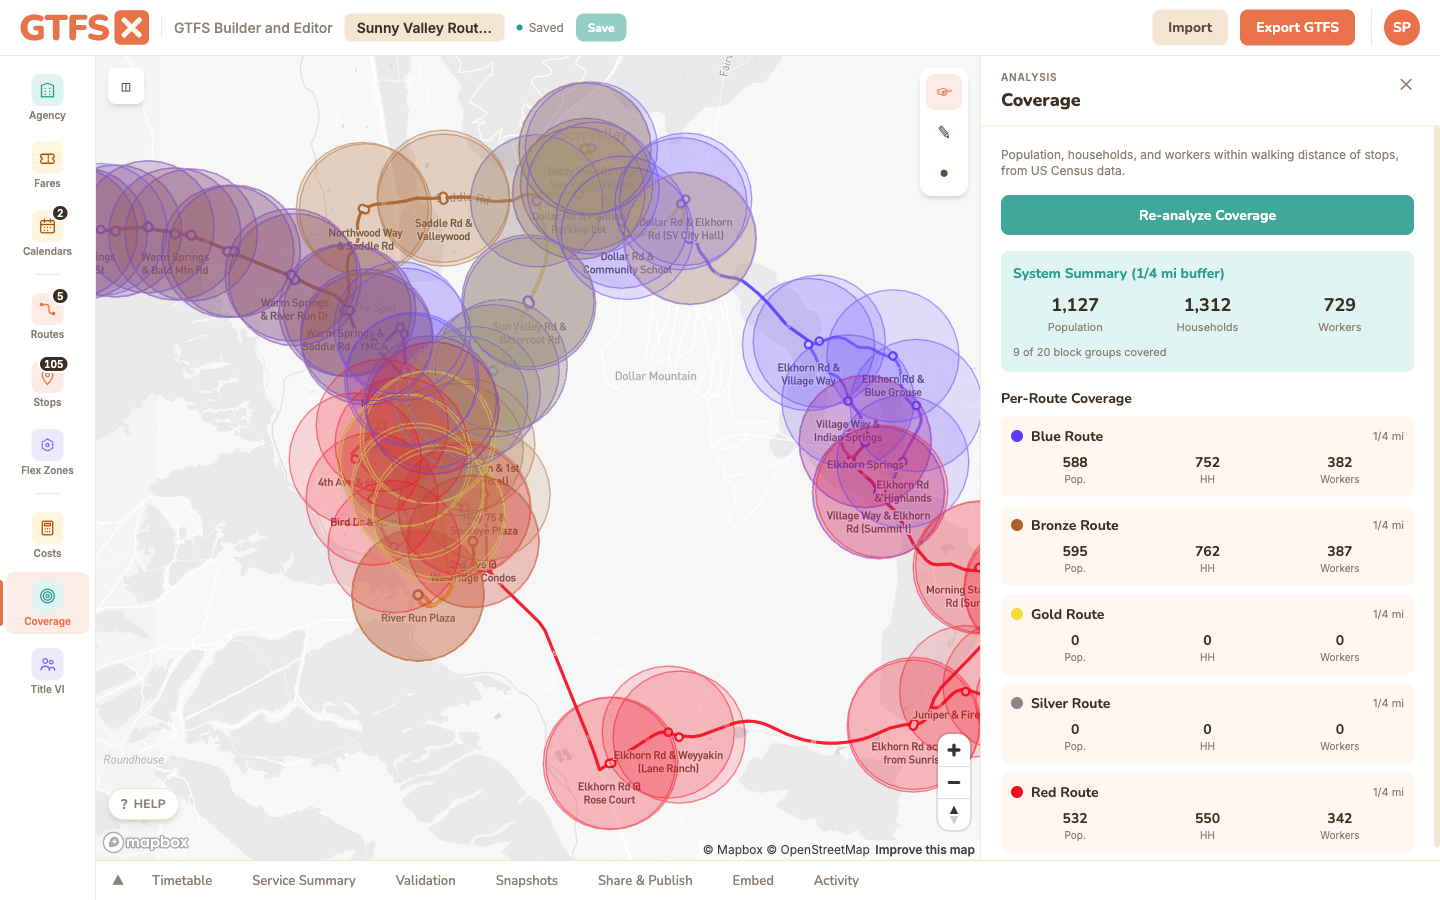
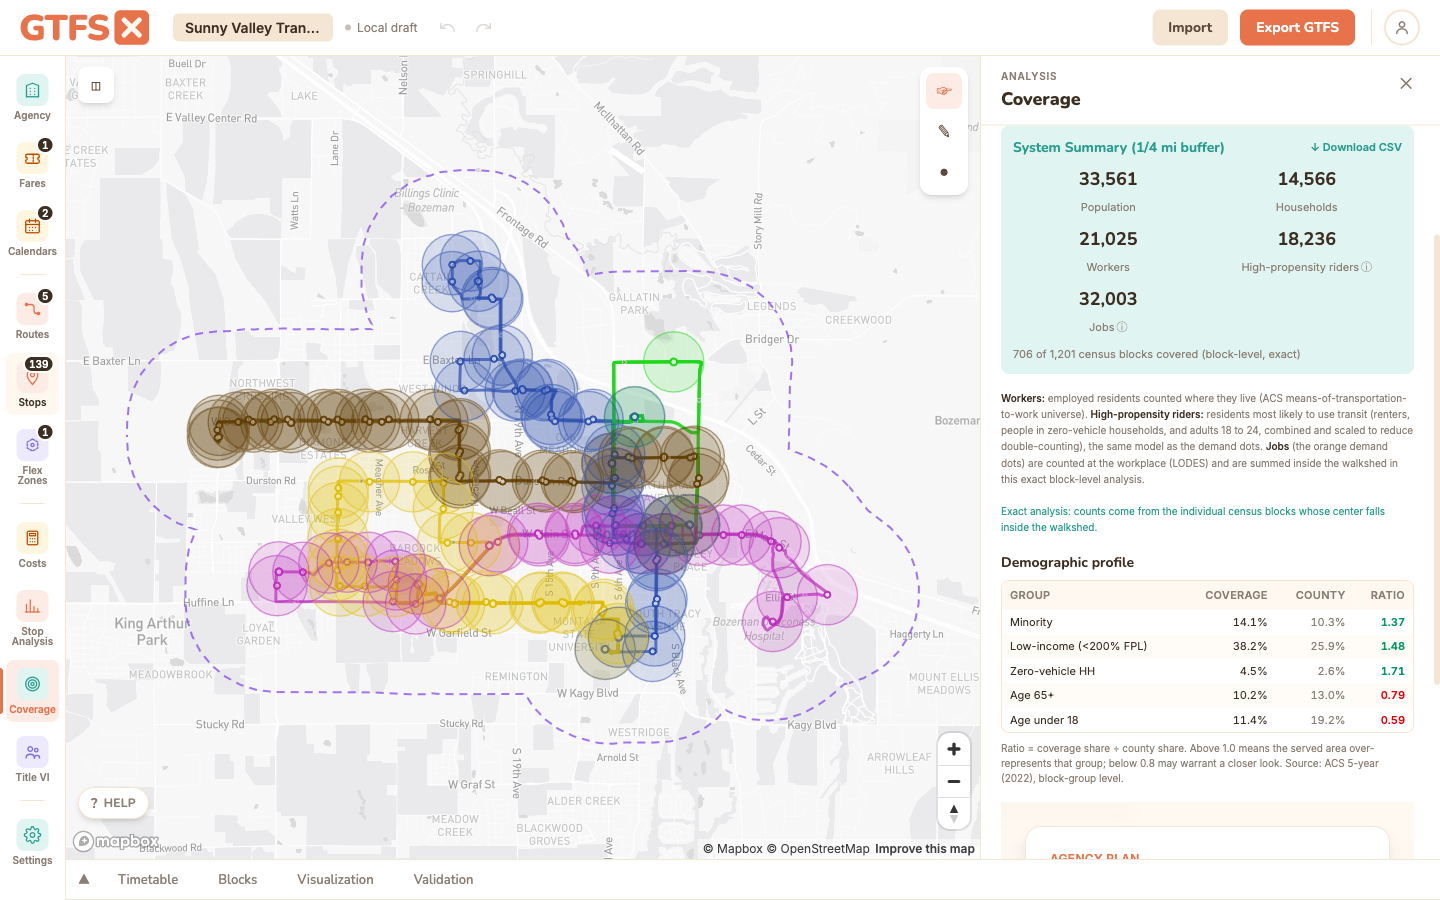
docs(coverage): rewrite for the revised block-level demographic analysis
The Demographic coverage page described the old method (block-group discs on
tract centroids, B25001 housing units, jobs/equity excluded). Rewrite What it
is / How to use / Methodology / Limits for the current method: exact
census-block tabulation, data sources (TIGER TABBLOCK20 + ACS 2022 5-yr
apportioned to blocks + LEHD/LODES jobs), and outputs (population, occupied
households, workers, high-propensity riders, jobs, equity profile, CSV). Fresh
hero screenshot; meta + dateModified updated; search index rebuilt.

diff --git a/public/docs/demographic-coverage/index.html b/public/docs/demographic-coverage/index.html
@@ -5,10 +5,10 @@
     <meta name="viewport" content="width=device-width, initial-scale=1.0" />
     <link rel="icon" type="image/svg+xml" href="/favicon.svg?v=2" />
     <title>Demographic coverage — GTFS·X</title>
-    <meta name="description" content="Population, households, and workers within walking distance of GTFS stops, computed from US Census ACS data. Per-route and system-wide figures." />
+    <meta name="description" content="Population, households, workers, jobs, and equity demographics within walking distance of GTFS stops, tallied at the census-block level from US Census ACS, decennial, and LEHD/LODES data. Per-route and system-wide figures." />
     <link rel="canonical" href="https://www.gtfsx.com/docs/demographic-coverage/" />
     <meta property="og:title" content="Demographic coverage — GTFS·X" />
-    <meta property="og:description" content="Population, households, and workers served by a GTFS feed, using US Census ACS data and a configurable walk-distance buffer." />
+    <meta property="og:description" content="Population, households, workers, jobs, and equity demographics served by a GTFS feed, tallied at the census-block level from US Census ACS, decennial, and LEHD/LODES data." />
     <meta property="og:type" content="article" />
     <meta property="og:url" content="https://www.gtfsx.com/docs/demographic-coverage/" />
     <meta property="og:image" content="https://www.gtfsx.com/og-default.png" />
@@ -62,7 +62,7 @@
   "@context": "https://schema.org",
   "@type": "TechArticle",
   "headline": "Demographic coverage — GTFS·X",
-  "description": "Population, households, and workers within walking distance of GTFS stops, computed from US Census ACS data. Per-route and system-wide figures.",
+  "description": "Population, households, workers, jobs, and equity demographics within walking distance of GTFS stops, tallied at the census-block level from US Census ACS, decennial, and LEHD/LODES data. Per-route and system-wide figures.",
   "image": "https://www.gtfsx.com/og-default.png",
   "author": {
     "@type": "Organization",
@@ -78,7 +78,7 @@
     }
   },
   "datePublished": "2026-05-01",
-  "dateModified": "2026-05-22",
+  "dateModified": "2026-06-27",
   "mainEntityOfPage": {
     "@type": "WebPage",
     "@id": "https://www.gtfsx.com/docs/demographic-coverage/"
@@ -104,17 +104,18 @@
     <main>
       <div class="crumbs"><a href="/docs/">Docs</a> · Analysis tools · Demographic coverage</div>
       <h1>Demographic coverage <span class="tier-badge agency">Agency</span></h1>
-      <p class="lede">Population, households, and workers within walking distance of your stops, computed from US Census ACS data. Per-route and system-wide figures suitable for a grant narrative ("17,400 residents and 9,200 jobs are within a quarter-mile of the proposed Route 5 alignment") or for sanity-checking a service alternative.</p>
+      <p class="lede">Population, households, workers, jobs, and equity demographics within walking distance of your stops, tallied at the individual census-block level from US Census data. Per-route and system-wide figures suitable for a grant narrative ("33,600 residents and 32,000 jobs are within a quarter-mile of the network") or for sanity-checking a service alternative.</p>
       <p><strong>The system-level summary is free on every plan.</strong> The per-route coverage breakdown is an Agency feature.</p>
 
       <figure>
-        <img src="/assets/docs/demographic-coverage-hero.png" alt="Coverage panel in GTFS·X showing population, household, and worker totals for Sunny Valley, with the buffer overlay rendered on the map." loading="lazy" />
-        <figcaption>Coverage analysis on the Sunny Valley feed. System totals (population, households, workers) at top; per-route breakdown below; coverage polygons overlaid on the map.</figcaption>
+        <img src="/assets/docs/demographic-coverage-hero.png" alt="Coverage panel in GTFS·X showing population, household, worker, high-propensity rider, and job totals for Sunny Valley, plus an equity profile, with the walkshed buffer rendered on the map." loading="lazy" />
+        <figcaption>Coverage analysis on the Sunny Valley feed. System totals (population, households, workers, high-propensity riders, and jobs) tallied from the exact census blocks inside the walkshed, with the equity profile against the county baseline below and the buffer overlaid on the map.</figcaption>
       </figure>
 
       <h2 id="what-it-is">What it is</h2>
-      <p>The Coverage panel reports three figures for the area within walking distance of your transit network: <strong>population</strong>, <strong>households</strong>, and <strong>workers</strong>. The figures come from the most recent five-year American Community Survey (currently the 2022 5-year release, ACS B01003, B25001, and B08301 respectively) and are apportioned to your service area by overlapping a buffer around each stop with the Census block groups it touches.</p>
-      <p>It's the answer to the most-asked question in a service-planning meeting — "how many people does this route reach?" — without firing up a desktop GIS or pulling Census tables by hand. Run it on your existing network to anchor a discussion; run it on a proposed alternative to support a recommendation.</p>
+      <p>The Coverage panel reports, for the area within walking distance of your transit network: <strong>population</strong>, <strong>households</strong>, <strong>workers</strong>, <strong>high-propensity riders</strong>, and <strong>jobs</strong>. Alongside the totals it shows an <strong>equity profile</strong> (minority, low-income, zero-vehicle, senior, and youth shares) compared against the county baseline, and a <strong>Download CSV</strong> of every figure.</p>
+      <p>The counts are exact rather than approximate: GTFS·X tallies the individual US census blocks whose center falls inside the walkshed. Block population comes from the 2020 decennial count, American Community Survey demographics are apportioned down to each block by population, and jobs are workplace counts from the Census LEHD program. It works for any feed in the 50 states plus DC.</p>
+      <p>It answers the most-asked question in a service-planning meeting ("how many people does this route reach?") without firing up a desktop GIS or pulling Census tables by hand. Run it on your existing network to anchor a discussion, or on a proposed alternative to support a recommendation.</p>
 
       <h2 id="when-to-use-it">When to use it</h2>
       <ul>
@@ -127,25 +128,31 @@
       <h2 id="how-to-use-it">How to use it in GTFS·X</h2>
       <ol>
         <li>Open the feed in the editor and click <strong>Coverage</strong> in the left sidebar.</li>
-        <li>Click <strong>Analyze Coverage</strong>. The tool fetches the Census block groups that intersect your service area and computes the buffered overlap. First run for a region takes several seconds; results cache locally.</li>
-        <li>Read the system summary card: population, households, workers, and the count of block groups touched, with the buffer distance noted.</li>
-        <li>Scroll the per-route breakdown to see how each route contributes. A route that adds few unique residents relative to its operating cost is worth asking questions about (and the <a href="/docs/cost-estimation/">Cost estimation</a> panel will give you the other half of that ratio).</li>
+        <li>Click <strong>Analyze Coverage</strong>. GTFS·X loads the census blocks around your stops and tallies the ones inside the walkshed. The first run for a region takes a few seconds; results cache locally.</li>
+        <li>Read the system summary: population, households, workers, high-propensity riders, and jobs, with the count of census blocks covered noted underneath.</li>
+        <li>Below it, the <strong>demographic profile</strong> compares the covered area's equity shares against the county baseline (a ratio above 1.0 means the served area over-represents that group).</li>
+        <li>Scroll the per-route breakdown to see how each route contributes, then use <strong>Download CSV</strong> to export every figure (system, county baseline, and per route) for a report. Pair a route's coverage with the <a href="/docs/cost-estimation/">Cost estimation</a> panel for a service-per-dollar view.</li>
+        <li>Agency-plan users can switch on <strong>street-network walksheds</strong> for walk-distance reach instead of a straight-line buffer.</li>
       </ol>
 
       <h2 id="methodology">Methodology</h2>
-      <p>The tool buffers each stop, intersects the buffer with the Census block groups it overlaps, and apportions block-group demographics by the overlap fraction.</p>
+      <p>GTFS·X counts the individual US census blocks whose center point falls inside the walkshed, then sums each block's attributes. Counting real blocks rather than approximating with overlap math is what makes the figures exact.</p>
       <ul>
-        <li><strong>Buffer distance.</strong> Quarter-mile (1,320 ft) for bus, ferry, cable car, gondola, and funicular routes; half-mile (2,640 ft) for tram, subway, and rail. These match the conventional walking-distance assumptions used in transit-planning practice. Per-stop buffer overrides aren't supported today.</li>
-        <li><strong>Block-group geometry.</strong> Each block group is modeled as a disc with a half-mile radius centered on the tract centroid. This is a deliberate simplification — actual block-group polygons would be more precise but materially slower to compute in the browser — and is best understood as a reasonable approximation for dense and suburban areas. Sparse rural block groups may be over-counted; if your service area has fewer than ~50 block groups, validate the result against a polygon-aware tool.</li>
-        <li><strong>System-wide aggregation.</strong> For each block group, the tool takes the <em>maximum</em> overlap fraction across all routes (not the sum) before computing population. That means a block group covered by three routes counts once, not three times — the system-wide figure is a union count, not a sum of per-route counts. (Per-route figures, by contrast, are pure per-route — adding them up will over-count.)</li>
-        <li><strong>ACS variables.</strong> <code>B01003_001E</code> for total population, <code>B25001_001E</code> for total housing units (used as a proxy for households), <code>B08301_001E</code> for total workers 16 and over. Vintage: ACS 2022 5-year. If your agency's adopted methodology requires a different vintage, the figure won't be directly comparable — cite the vintage in any document.</li>
+        <li><strong>Walkshed.</strong> By default, a straight-line buffer around each stop: quarter-mile (1,320 ft) for bus, ferry, cable car, gondola, and funicular routes; half-mile (2,640 ft) for tram, subway, and rail. These match the conventional walking-distance assumptions used in transit-planning practice. Agency-plan users can switch to <strong>street-network walksheds</strong>, which follow the actual pedestrian network (and can size each stop's reach by its service frequency) instead of a circle.</li>
+        <li><strong>Census blocks, not block groups.</strong> A census block is the Bureau's smallest geography, often a single city block. GTFS·X loads a nationwide layer of every block's internal point and tallies the blocks inside the walkshed, so coverage tracks your stop placement closely instead of being smeared across a half-mile disc. (An earlier version of this tool approximated block groups as discs on tract centroids; the block-level method replaces it.)</li>
+        <li><strong>Data sources.</strong> Block geometry and 2020 population come from the Census <strong>TIGER/Line</strong> block file (TABBLOCK20). Demographic detail comes from the <strong>American Community Survey</strong> 5-year estimates (2022 release), published at the block-group level and apportioned down to each block in proportion to its 2020 population (a standard dasymetric step). Jobs come from the Census <strong>LEHD/LODES</strong> program, which already reports employment at the block level.</li>
+        <li><strong>What each figure measures.</strong> <em>Population</em> (ACS <code>B01003</code>), <em>households</em> (occupied households, ACS <code>B25044</code>), and <em>workers</em> (employed residents counted where they live, ACS <code>B08301</code>) are residence-based. <em>Jobs</em> are workplace-based, from LODES. <em>High-propensity riders</em> estimates the residents most likely to use transit: renters, people in zero-vehicle households, and adults 18 to 24, combined and scaled to discount the overlap between those groups. The <em>equity profile</em> reports the minority, low-income, zero-vehicle, senior, and youth shares of the covered area against the surrounding county.</li>
+        <li><strong>System vs. per-route.</strong> The system summary counts each block once even when several routes reach it (a union, not a sum). Per-route figures are pure per-route, so adding them up will over-count blocks served by more than one route.</li>
+        <li><strong>Coverage area.</strong> The exact block layer spans the 50 states plus DC. A feed outside that (a US territory, or outside the country) automatically falls back to the older block-group estimate, and the panel labels which method produced each figure.</li>
       </ul>
 
       <h2 id="limits">Limits</h2>
       <ul>
-        <li>The buffer-around-a-stop assumption treats stop placement as the unit of access. It doesn't model walk-network geometry, intersections, or topography. A stop on the wrong side of a freeway with no underpass will still count as covering everything within a quarter-mile.</li>
-        <li>"Workers" is the residential count — people who live in the buffer and work somewhere. For "jobs in the buffer" (a different demographic, often more useful for downtown coverage), see the Demand Dots layer described in <a href="/docs/rider-propensity/">Rider propensity</a>, which incorporates LEHD workplace data.</li>
-        <li>The tool surfaces totals only. For Title VI–style demographic comparisons (minority vs non-minority, low-income vs non-low-income), see the <a href="/docs/title-vi-analysis/">Title VI analysis</a> page.</li>
+        <li>The default straight-line buffer treats stop placement as the unit of access; it doesn't model walk-network geometry, intersections, or topography. A stop on the wrong side of a freeway with no underpass still counts as covering everything within the buffer. The Agency-plan street-network walkshed addresses this by following the real pedestrian network.</li>
+        <li>ACS demographics are apportioned to blocks in proportion to each block's population, which assumes they're distributed evenly within a block group. This is far more accurate than a land-area split, but it remains an estimate at the block level for everything except the raw population and job counts (which are measured directly).</li>
+        <li>"Workers" and "jobs" measure different things and are both reported: workers are employed residents counted where they live; jobs are counted where the work is (so a downtown with few residents but many jobs shows a low worker count and a high job count).</li>
+        <li>Figures use the ACS 2022 5-year vintage and 2020 decennial block geometry. If your agency's adopted methodology requires a different vintage, cite the one used in any document.</li>
+        <li>The on-screen equity profile is a quick coverage-vs-county comparison. For a formal Title VI service-equity analysis (disparate-impact and disproportionate-burden tests), see the <a href="/docs/title-vi-analysis/">Title VI analysis</a> page.</li>
       </ul>
 
       <div class="see-also">